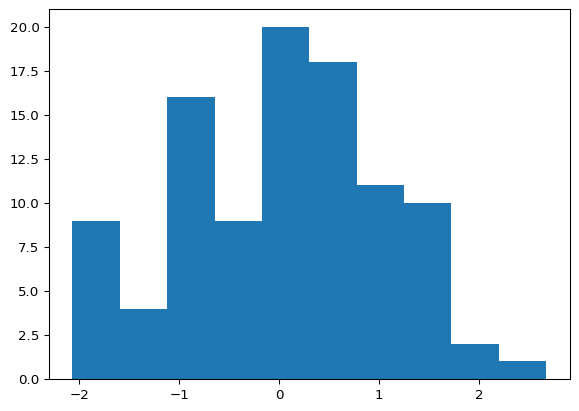
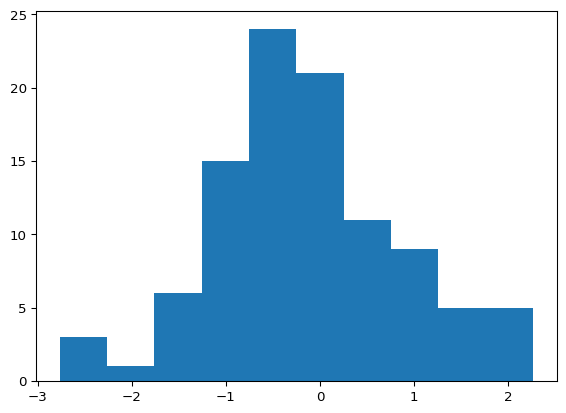
Built site for gh-pages

Changed region(s): [[0.0, 0.0, 0.9912, 0.9635]]

diff --git a/units/unit1.html b/units/unit1.html
@@ -192,7 +192,7 @@ $$
 <p>This is an example of using qmd as the source document.</p>
 <section id="evaluated-python-code-chunk-with-a-plot" class="level2">
 <h2 class="anchored" data-anchor-id="evaluated-python-code-chunk-with-a-plot">Evaluated Python code chunk, with a plot</h2>
-<div id="97035f69" class="cell" data-execution_count="1">
+<div id="7d919e80" class="cell" data-execution_count="1">
 <details open="" class="code-fold">
 <summary>Code</summary>
 <div class="sourceCode cell-code" id="cb1"><pre class="sourceCode python code-with-copy"><code class="sourceCode python"><span id="cb1-1"><a href="#cb1-1" aria-hidden="true" tabindex="-1"></a><span class="im">import</span> numpy <span class="im">as</span> np</span>
@@ -210,7 +210,7 @@ $$
 </div>
 </div>
 <div class="cell-output cell-output-display" data-execution_count="1">
-<pre><code>np.float64(-0.0024699749596354104)</code></pre>
+<pre><code>np.float64(-0.0611083076703523)</code></pre>
 </div>
 </div>
 </section>
@@ -272,7 +272,7 @@ Tip with Title
 </div>
 <div id="tabset-1-2" class="tab-pane" role="tabpanel" aria-labelledby="tabset-1-2-tab">
 <p>This code is executed.</p>
-<div id="43b4aefd" class="cell" data-execution_count="2">
+<div id="408bc9dd" class="cell" data-execution_count="2">
 <details open="" class="code-fold">
 <summary>Code</summary>
 <div class="sourceCode cell-code" id="cb4"><pre class="sourceCode python code-with-copy"><code class="sourceCode python"><span id="cb4-1"><a href="#cb4-1" aria-hidden="true" tabindex="-1"></a><span class="kw">def</span> fizz_buzz(num):</span>

diff --git a/units/unit3.html b/units/unit3.html
@@ -189,7 +189,7 @@ $$
 <p>This is an example of using qmd as the source document with pdf as one target. I’ve taken out the qmd stuff that doesn’t seem to render to pdf.</p>
 <section id="evaluated-python-code-chunk-with-a-plot" class="level2">
 <h2 class="anchored" data-anchor-id="evaluated-python-code-chunk-with-a-plot">Evaluated Python code chunk, with a plot</h2>
-<div id="4e355f21" class="cell" data-execution_count="1">
+<div id="ac183df5" class="cell" data-execution_count="1">
 <details open="" class="code-fold">
 <summary>Code</summary>
 <div class="sourceCode cell-code" id="cb1"><pre class="sourceCode python code-with-copy"><code class="sourceCode python"><span id="cb1-1"><a href="#cb1-1" aria-hidden="true" tabindex="-1"></a><span class="im">import</span> numpy <span class="im">as</span> np</span>
@@ -207,7 +207,7 @@ $$
 </div>
 </div>
 <div class="cell-output cell-output-display" data-execution_count="1">
-<pre><code>np.float64(0.0487960488864441)</code></pre>
+<pre><code>np.float64(-0.134720662641286)</code></pre>
 </div>
 </div>
 </section>
